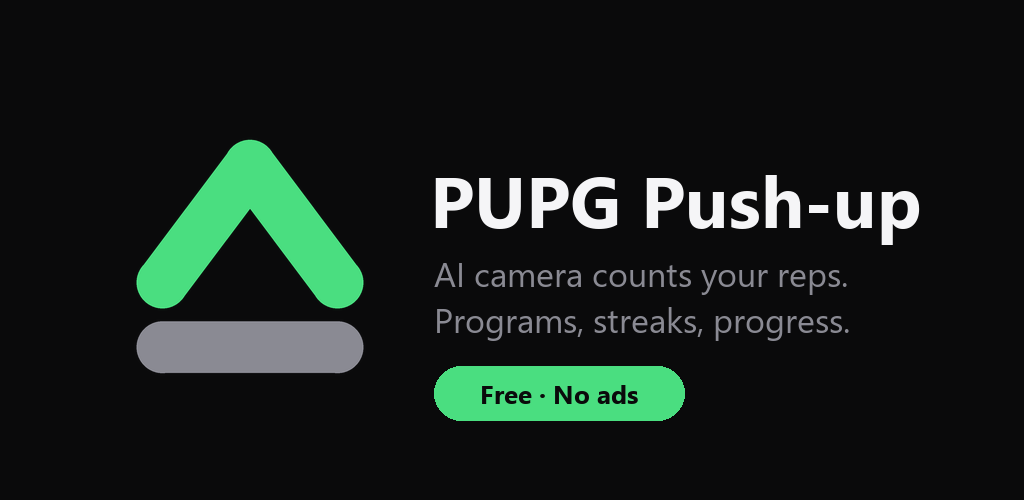
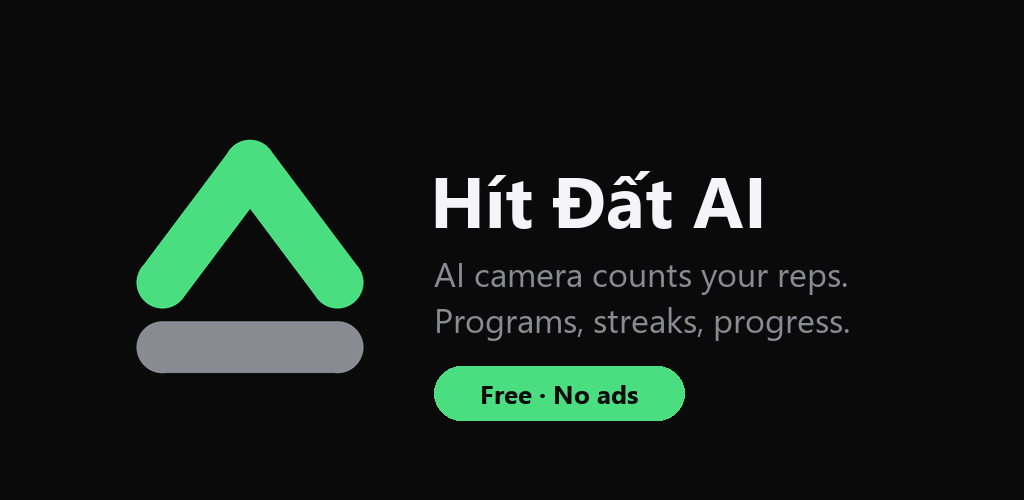
chore: rename the app to Hít Đất AI (com.betuanminh.hitdat)
"PUPG" sat too close to Krafton's PUBG for a Play listing, and the package
id cannot change once the first build is uploaded, so both change now:
name, header and onboarding brand, share text, privacy policy, store
listing, release checklist and feature graphic.

Kept on purpose: the internal storage keys (pupg:*), which would orphan
saved data, and the EAS slug, which is linked to the EAS project.

Changed region(s): [[0.4375, 0.33, 0.9062, 0.51]]

diff --git a/docs/privacy.html b/docs/privacy.html
@@ -3,7 +3,7 @@
 <head>
 <meta charset="utf-8" />
 <meta name="viewport" content="width=device-width, initial-scale=1" />
-<title>PUPG Push-up · Privacy Policy</title>
+<title>Hít Đất AI · Privacy Policy</title>
 <style>
   :root { color-scheme: dark; }
   body {
@@ -24,11 +24,11 @@
 </head>
 <body>
 <main>
-  <h1>PUPG Push-up — Privacy Policy</h1>
-  <p class="meta">Effective 26 September 2026 · App package <code>com.pupg.pushup</code> · <a href="#vi">Tiếng Việt bên dưới</a></p>
+  <h1>Hít Đất AI — Privacy Policy</h1>
+  <p class="meta">Effective 27 September 2026 · App package <code>com.betuanminh.hitdat</code> · <a href="#vi">Tiếng Việt bên dưới</a></p>
 
   <h2>Summary</h2>
-  <p>PUPG Push-up does not collect, store or share any personal data. Everything the app records — your workouts, program progress and settings — stays on your device. There is no account, no analytics, no advertising and no tracking of any kind.</p>
+  <p>Hít Đất AI does not collect, store or share any personal data. Everything the app records — your workouts, program progress, settings and app-blocker choices — stays on your device. There is no account, no analytics, no advertising and no tracking of any kind.</p>
 
   <h2>Camera</h2>
   <p>The optional <strong>AI camera</strong> mode uses your front camera to count push-ups by estimating body position. Frames are processed <strong>on your device</strong>, in real time, and are never recorded, stored or uploaded. The camera is only active while a camera-mode workout is running, and you can use the sensor or tap modes instead without ever granting camera access.</p>
@@ -63,11 +63,11 @@
   <p>Questions about privacy: open an issue at <a href="https://github.com/betuanminh22032003/push-up/issues">github.com/betuanminh22032003/push-up/issues</a>.</p>
 
   <section class="lang" id="vi" lang="vi">
-    <h1>PUPG Push-up — Chính sách quyền riêng tư</h1>
-    <p class="meta">Có hiệu lực từ 26/09/2026</p>
+    <h1>Hít Đất AI — Chính sách quyền riêng tư</h1>
+    <p class="meta">Có hiệu lực từ 27/09/2026 · Gói ứng dụng <code>com.betuanminh.hitdat</code></p>
 
     <h2>Tóm tắt</h2>
-    <p>PUPG Push-up không thu thập, lưu trữ hay chia sẻ bất kỳ dữ liệu cá nhân nào. Mọi thứ ứng dụng ghi lại — buổi tập, tiến độ chương trình và cài đặt — đều nằm trên thiết bị của bạn. Không có tài khoản, không phân tích, không quảng cáo, không theo dõi dưới bất kỳ hình thức nào.</p>
+    <p>Hít Đất AI không thu thập, lưu trữ hay chia sẻ bất kỳ dữ liệu cá nhân nào. Mọi thứ ứng dụng ghi lại — buổi tập, tiến độ chương trình, cài đặt và lựa chọn chặn ứng dụng — đều nằm trên thiết bị của bạn. Không có tài khoản, không phân tích, không quảng cáo, không theo dõi dưới bất kỳ hình thức nào.</p>
 
     <h2>Camera</h2>
     <p>Chế độ <strong>Camera AI</strong> (tuỳ chọn) dùng camera trước để đếm hít đất bằng cách ước lượng tư thế cơ thể. Khung hình được xử lý <strong>ngay trên thiết bị</strong>, theo thời gian thực, không bao giờ được ghi lại, lưu trữ hay tải lên. Camera chỉ hoạt động khi bạn đang tập ở chế độ camera; bạn có thể dùng chế độ Cảm biến hoặc Chạm mà không cần cấp quyền camera.</p>

diff --git a/src/i18n/strings.js b/src/i18n/strings.js
@@ -135,7 +135,7 @@ const en = {
   'confirm.restart': 'Restart',
 
   // --- share --------------------------------------------------------------
-  'share.text': 'I just did {reps} push-ups in {time} with PUPG Push-up 💪',
+  'share.text': 'I just did {reps} push-ups in {time} with Hít Đất AI 💪',
   'share.sets': ' ({sets} sets)',
 
   // --- program ------------------------------------------------------------
@@ -273,7 +273,7 @@ const en = {
   'reminder.body': 'Keep your streak alive. One set is enough.',
 
   // --- onboarding ---------------------------------------------------------
-  'onboarding.title': 'Welcome to PUPG',
+  'onboarding.title': 'Welcome to Hít Đất AI',
   'onboarding.s1.title': 'Hands-free counting',
   'onboarding.s1.body':
     'Prop the phone up to your side so your whole body is in frame: the AI camera counts every rep and coaches your form. No camera? Put the phone on the floor and use the sensor, or tap the screen with your nose.',
@@ -404,7 +404,7 @@ const vi = {
   'confirm.restartBody': 'Tiến độ ngày sẽ được đặt lại. Lịch sử tập vẫn giữ nguyên.',
   'confirm.restart': 'Bắt đầu lại',
 
-  'share.text': 'Tôi vừa hít đất {reps} cái trong {time} với PUPG Push-up 💪',
+  'share.text': 'Tôi vừa hít đất {reps} cái trong {time} với Hít Đất AI 💪',
   'share.sets': ' ({sets} set)',
 
   'program.title': 'Chương trình 6 tuần',
@@ -534,7 +534,7 @@ const vi = {
   'reminder.title': 'Đến giờ hít đất 💪',
   'reminder.body': 'Giữ chuỗi ngày của bạn. Một set là đủ.',
 
-  'onboarding.title': 'Chào mừng đến PUPG',
+  'onboarding.title': 'Chào mừng đến Hít Đất AI',
   'onboarding.s1.title': 'Đếm không cần chạm',
   'onboarding.s1.body':
     'Dựng điện thoại bên hông để thấy toàn thân: camera AI đếm từng cái và nhắc tư thế. Không dùng camera? Đặt máy trên sàn, dùng cảm biến hoặc chạm mũi vào màn hình.',

diff --git a/src/screens/OnboardingModal.js b/src/screens/OnboardingModal.js
@@ -18,7 +18,7 @@ export function OnboardingModal({ visible, onClose }) {
     <Modal visible={visible} animationType="slide" onRequestClose={onClose} statusBarTranslucent>
       <SafeAreaView style={styles.screen}>
         <ScrollView contentContainerStyle={styles.content} showsVerticalScrollIndicator={false}>
-          <Text style={styles.brand}>PUPG</Text>
+          <Text style={styles.brand}>HÍT ĐẤT AI</Text>
           <Text style={styles.title}>{t('onboarding.title')}</Text>
           {STEPS.map((step) => (
             <View key={step.key} style={styles.card}>

diff --git a/src/screens/WorkoutScreen.js b/src/screens/WorkoutScreen.js
@@ -524,7 +524,7 @@ export function WorkoutScreen({ plan, onClearPlan, onStatusChange, onCelebrate, 
     >
       <View style={styles.header}>
         <View>
-          <Text style={styles.brand}>PUPG</Text>
+          <Text style={styles.brand}>HÍT ĐẤT AI</Text>
           <Text style={styles.brandSub}>PUSH-UP</Text>
         </View>
         {activePlan?.kind === 'day' ? (

diff --git a/scripts/make-brand-assets.py b/scripts/make-brand-assets.py
@@ -93,7 +93,7 @@ def main():
     mark = glyph(360, ACCENT, TEXT_DIM, 0.9)
     fg.paste(mark, (70, (H - 360) // 2), mark)
     d = ImageDraw.Draw(fg)
-    d.text((430, 150), "PUPG Push-up", font=font(72), fill=TEXT)
+    d.text((430, 150), "Hít Đất AI", font=font(72), fill=TEXT)
     d.text((434, 250), "AI camera counts your reps.", font=font(34, bold=False), fill=TEXT_DIM)
     d.text((434, 296), "Programs, streaks, progress.", font=font(34, bold=False), fill=TEXT_DIM)
     d.rounded_rectangle([434, 366, 434 + 250, 366 + 54], radius=27, fill=ACCENT)

diff --git a/store/listing.md b/store/listing.md
@@ -1,4 +1,4 @@
-# Google Play listing — PUPG Push-up
+# Google Play listing — Hít Đất AI
 
 Copy-paste material for the Play Console. Character limits are Play's: title 30,
 short description 80, full description 4000.
@@ -20,7 +20,7 @@ Regenerate the icon and feature graphic with `npm run build:brand` (needs Python
 **Title** (30)
 
 ```
-PUPG Push-up: AI Counter
+Hít Đất AI: Push-up Counter
 ```
 
 **Short description** (80)
@@ -32,7 +32,7 @@ Hands-free push-up counter. AI camera, 6-week program, goals and streaks.
 **Full description**
 
 ```
-Put the phone down and just do push-ups. PUPG counts every rep for you — with the camera, the sensor, or a tap of your nose — and turns them into a habit.
+Put the phone down and just do push-ups. Hít Đất AI counts every rep for you — with the camera, the sensor, or a tap of your nose — and turns them into a habit.
 
 COUNTS HANDS-FREE
 • AI camera: prop the phone up, get into position, and the camera counts your reps and coaches your form ("go lower", "keep your body straight").
@@ -69,7 +69,7 @@ Available in English and Vietnamese.
 **Title** (30)
 
 ```
-PUPG Hít đất: Đếm bằng AI
+Hít Đất AI: Đếm bằng camera
 ```
 
 **Short description** (80)
@@ -81,7 +81,7 @@ PUPG Hít đất: Đếm bằng AI
 **Full description**
 
 ```
-Đặt điện thoại xuống và chỉ việc hít đất. PUPG đếm từng cái cho bạn — bằng camera, cảm biến, hoặc chạm mũi — và biến nó thành thói quen.
+Đặt điện thoại xuống và chỉ việc hít đất. Hít Đất AI đếm từng cái cho bạn — bằng camera, cảm biến, hoặc chạm mũi — và biến nó thành thói quen.
 
 ĐẾM RẢNH TAY
 • Camera AI: dựng điện thoại lên, vào tư thế, camera đếm số cái và nhắc tư thế ("xuống thấp hơn", "giữ thẳng người").

diff --git a/README.md b/README.md
@@ -1,4 +1,4 @@
-# PUPG Push-up
+# Hít Đất AI
 
 Hands-free push-up counter for Android (Expo / React Native). Dark, minimal, pure
 `StyleSheet`, no navigation library.
